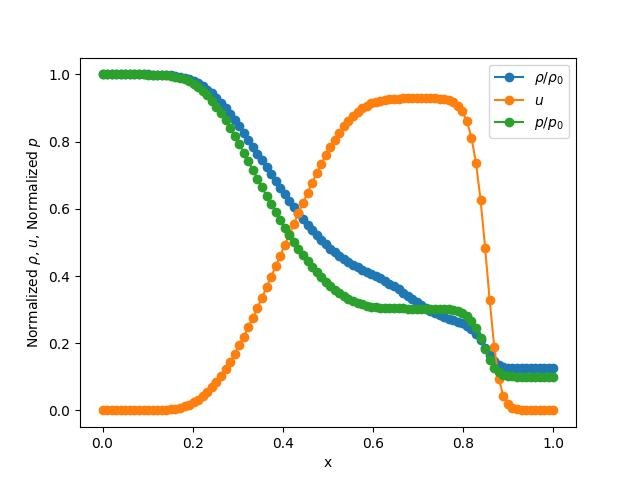
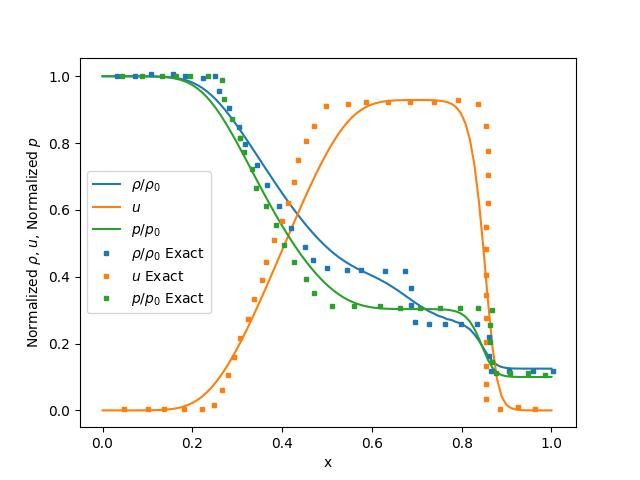
Added verification data for conservative Sod tube

diff --git a/tutorials/conservative_sod_shock/verification_data.py b/tutorials/conservative_sod_shock/verification_data.py
@@ -1,0 +1,20 @@
+# Verification data obtained from
+Sod, Gary A. "A survey of several finite difference methods for systems of nonlinear hyperbolic conservation laws." Journal of Computational Physics 27.1 (1978): 1-31.
+
+# Density data
+density_x = [0.03125, 0.07142857142857142, 0.10714285714285714, 0.15625, 0.18303571428571427, 0.2232142857142857, 0.25, 0.2589285714285714, 0.28125, 0.30357142857142855, 0.3169642857142857, 0.34375, 0.36607142857142855, 0.39285714285714285, 0.4196428571428571, 0.4508928571428571, 0.46875, 0.5,
+             0.5446428571428571, 0.5758928571428571, 0.6294642857142857, 0.6741071428571428, 0.6875, 0.6875, 0.6964285714285714, 0.7276785714285714, 0.7633928571428571, 0.7991071428571428, 0.8348214285714285, 0.8616071428571428, 0.8616071428571428, 0.8660714285714285, 0.90625, 0.9598214285714285, 1.0044642857142856]
+density_y = [1, 1, 1.0056179775280898, 1.0056179775280898, 1, 0.9943820224719101, 1, 0.9550561797752809, 0.9044943820224719, 0.848314606741573, 0.797752808988764, 0.7359550561797753, 0.6741573033707865, 0.6123595505617977, 0.5449438202247191, 0.4887640449438202, 0.449438202247191, 0.42696629213483145, 0.42134831460674155,
+             0.42134831460674155, 0.4157303370786517, 0.4157303370786517, 0.3651685393258427, 0.3146067415730337, 0.2640449438202247, 0.2584269662921348, 0.2584269662921348, 0.2584269662921348, 0.2584269662921348, 0.2191011235955056, 0.16292134831460675, 0.11797752808988764, 0.11797752808988764, 0.11797752808988764, 0.11797752808988764]
+
+# Velocity data
+velocity_x = [0.04888888888888889, 0.10222222222222223, 0.13777777777777778, 0.18222222222222223, 0.2222222222222222, 0.24888888888888888, 0.26666666666666666, 0.28, 0.29333333333333333, 0.30666666666666664, 0.3244444444444444, 0.3377777777777778, 0.35555555555555557, 0.36444444444444446, 0.38222222222222224, 0.4, 0.41333333333333333, 0.42666666666666664, 0.43555555555555553, 0.4533333333333333, 0.4711111111111111, 0.49777777777777776, 0.5466666666666666,
+              0.5866666666666667, 0.6355555555555555, 0.6844444444444444, 0.7377777777777778, 0.7911111111111111, 0.8355555555555556, 0.8533333333333333, 0.8577777777777778, 0.8577777777777778, 0.8577777777777778, 0.8533333333333333, 0.8533333333333333, 0.8533333333333333, 0.8533333333333333, 0.8533333333333333, 0.8533333333333333, 0.8533333333333333, 0.8533333333333333, 0.8533333333333333, 0.8844444444444445, 0.9244444444444444, 0.9644444444444444]
+velocity_y = [0.005555555555555556, 0.005555555555555556, 0.005555555555555556, 0.005555555555555556, 0.005555555555555556, 0.016666666666666666, 0.061111111111111116, 0.10555555555555556, 0.16111111111111112, 0.21666666666666667, 0.27222222222222225, 0.33333333333333337, 0.3888888888888889, 0.4444444444444445, 0.5111111111111112, 0.5666666666666667, 0.6222222222222222, 0.6833333333333333, 0.75, 0.8055555555555556, 0.85, 0.9111111111111111,
+              0.9166666666666667, 0.9222222222222223, 0.9222222222222223, 0.9222222222222223, 0.9222222222222223, 0.9277777777777778, 0.9166666666666667, 0.85, 0.7777777777777778, 0.7055555555555556, 0.6222222222222222, 0.55, 0.48333333333333334, 0.40555555555555556, 0.34444444444444444, 0.2777777777777778, 0.20555555555555557, 0.13333333333333333, 0.07777777777777778, 0.03333333333333333, 0.005555555555555556, 0.011111111111111112, 0.005555555555555556]
+
+# Pressure data
+pressure_x = [0.044444444444444446, 0.13333333333333333, 0.16444444444444445, 0.19555555555555557, 0.08888888888888889, 0.23555555555555555, 0.26666666666666666, 0.27111111111111114, 0.28888888888888886, 0.30666666666666664, 0.30666666666666664, 0.31555555555555553, 0.3333333333333333, 0.3422222222222222, 0.36444444444444446, 0.38666666666666666, 0.40444444444444444,
+              0.42666666666666664, 0.4533333333333333, 0.4711111111111111, 0.5111111111111111, 0.56, 0.6177777777777778, 0.6622222222222223, 0.7066666666666667, 0.7511111111111111, 0.7955555555555556, 0.8355555555555556, 0.8622222222222222, 0.8666666666666667, 0.8622222222222222, 0.8666666666666667, 0.8755555555555555, 0.9066666666666666, 0.9466666666666667, 0.9866666666666667]
+pressure_y = [1, 1, 1, 1, 1, 1, 0.9888888888888889, 0.9333333333333333, 0.8722222222222222, 0.8166666666666667, 0.8166666666666667, 0.7722222222222223, 0.7222222222222222, 0.6666666666666667, 0.6111111111111112, 0.5555555555555556, 0.49444444444444446, 0.4444444444444445, 0.3944444444444445, 0.35000000000000003,
+              0.3111111111111111, 0.3111111111111111, 0.3111111111111111, 0.3055555555555556, 0.3055555555555556, 0.3055555555555556, 0.3055555555555556, 0.3055555555555556, 0.2555555555555556, 0.3, 0.20555555555555557, 0.14444444444444446, 0.11111111111111112, 0.11111111111111112, 0.11111111111111112, 0.10555555555555556]

diff --git a/tutorials/conservative_sod_shock/conservative_sod_shock.py b/tutorials/conservative_sod_shock/conservative_sod_shock.py
@@ -3,6 +3,7 @@ from splitfxm.simulation import Simulation
 from euler1d import Euler1DConservative
 from splitfxm.schemes import default_scheme, FVSchemes
 from splitfxm.visualize import draw
+from verification_data import *
 import matplotlib.pyplot as plt
 
 # Define the problem
@@ -38,10 +39,17 @@ s.evolve(split=False, split_loc=1, t_diff=0.2)
 # Visualize the results at a specific time step
 values = [m.conservative_to_primitive(cell_values)
           for cell_values in s._d.values(interior=True)]
-plt.plot(d.positions(interior=True), values, "-o")
+plt.plot(d.positions(interior=True), values, "-")
+
+# Plot the verification data
+plt.gca().set_prop_cycle(None)
+plt.plot(density_x, density_y, "s", markersize=3)
+plt.plot(velocity_x, velocity_y, "s", markersize=3)
+plt.plot(pressure_x, pressure_y, "s", markersize=3)
 
 # Properly formatted labels and legend entries
-plt.legend([r"$\rho/\rho_{0}$", r"$u$", r"$p/p_{0}$"])
+plt.legend([r"$\rho/\rho_{0}$", r"$u$", r"$p/p_{0}$",
+           r"$\rho/\rho_{0}$ Exact", r"$u$ Exact", r"$p/p_{0}$ Exact"])
 plt.xlabel("x")
 plt.ylabel(r"Normalized $\rho$, $u$, Normalized $p$")
 

diff --git a/docs/tutorials/conservative_sod_shock.md b/docs/tutorials/conservative_sod_shock.md
@@ -1,6 +1,6 @@
-# Sod Shock Tube
+# Conservative Sod Shock Tube
 
-This tutorial will walk you through the process of setting up a Sod Shock Tube problem using `splitfxm`.
+This tutorial will walk you through the process of setting up a Sod Shock Tube problem in conservative form using `splitfxm`.
 
 ## Problem Setup
 
@@ -19,40 +19,28 @@ We need to define the equations to use for this problem. The `Euler1DConservativ
 
 Note that the expressions for `Euler1DConservative` are quite complicated and only the final results are provided here. The derivation of the expressions is provided in the `flux_jacobian.py` file.
 
-Note that the `dFdU` function represents the derivative of the flux function with respect to the state vector `U`. This can be symbolically computed using `sympy` and the flux function, the program for which is provided in the `flux_jacobian.py`. The expressions are as follows:
+Also, the `dFdU` function represents the derivative of the flux function with respect to the state vector `U`. This can be symbolically computed using `sympy` and the flux function, the program for which is provided in the `flux_jacobian.py`. The expressions are as follows:
 
 The flux is given by:
-```plain
-⎡                  U₂                  ⎤
-⎢                                      ⎥
-⎢     2           ⎛              2⎞    ⎥
-⎢   U₂  + (γ - 1)⋅⎝U₁⋅U₃ - 0.5⋅U₂ ⎠    ⎥
-⎢   ───────────────────────────────    ⎥
-⎢                 U₁                   ⎥
-⎢                                      ⎥
-⎢   ⎛                ⎛              2⎞⎞⎥
-⎢U₂⋅⎝U₁⋅U₃ + (γ - 1)⋅⎝U₁⋅U₃ - 0.5⋅U₂ ⎠⎠⎥
-⎢──────────────────────────────────────⎥
-⎢                   2                  ⎥
-⎣                 U₁                   ⎦
-```
+
+\begin{bmatrix}
+U_2 \\
+\\
+\frac{U_2^2 + (\gamma - 1) \cdot \left(U_1 \cdot U_3 - 0.5 \cdot U_2^2\right)}{U_1} \\
+\\
+\frac{U_2 \cdot \left(U_1 \cdot U_3 + (\gamma - 1) \cdot \left(U_1 \cdot U_3 - 0.5 \cdot U_2^2\right)\right)}{U_1^2}
+\end{bmatrix}
+
+
 
 and similarly the Jacobian of the flux is given by:
-```plain
-⎡               0                                    1                       0  ⎤
-⎢                                                                               ⎥
-⎢         2                                                                     ⎥
-⎢       U₂ ⋅(0.5⋅γ - 1.5)                    U₂⋅(3.0 - 1.0⋅γ)                   ⎥
-⎢       ─────────────────                    ────────────────              γ - 1⎥
-⎢                2                                  U₁                          ⎥
-⎢              U₁                                                               ⎥
-⎢                                                                               ⎥
-⎢       ⎛             2       2⎞      ⎛                    2           2⎞       ⎥
-⎢1.0⋅U₂⋅⎝-U₁⋅U₃⋅γ + U₂ ⋅γ - U₂ ⎠  1.0⋅⎝1.0⋅U₁⋅U₃⋅γ - 1.5⋅U₂ ⋅γ + 1.5⋅U₂ ⎠  U₂⋅γ ⎥
-⎢───────────────────────────────  ───────────────────────────────────────  ──── ⎥
-⎢                3                                    2                     U₁  ⎥
-⎣              U₁                                   U₁                          ⎦
-```
+
+
+\begin{bmatrix}
+0 & 1 & 0 \\
+\frac{U_2 \cdot (0.5 \cdot \gamma - 1.5)}{U_1^2} & \frac{U_2 \cdot (3. - \gamma)}{U_1} & \gamma - 1\\
+\frac{U_2 \cdot (-U_1 \cdot U_3 \cdot \gamma + (\gamma - 1) \cdot U_2^2)}{U_1^3} & \frac{(U_1 \cdot U_3 \cdot \gamma - 1.5 \cdot (\gamma - 1) U_2^2)}{U_1^2} & \frac{U_2 \cdot \gamma}{U_1} \\
+\end{bmatrix}
 
 Then, the domain can be created using the `Domain.from_size` method.
 
@@ -117,3 +105,5 @@ plt.plot(d.positions(interior=True), values, "-o")
 The results should look like this:
 
 ![img](../images/conservative_sod_shock.jpg)
+
+It can be noted that the shock velocity and locations have been correctly captured using the default scheme.
